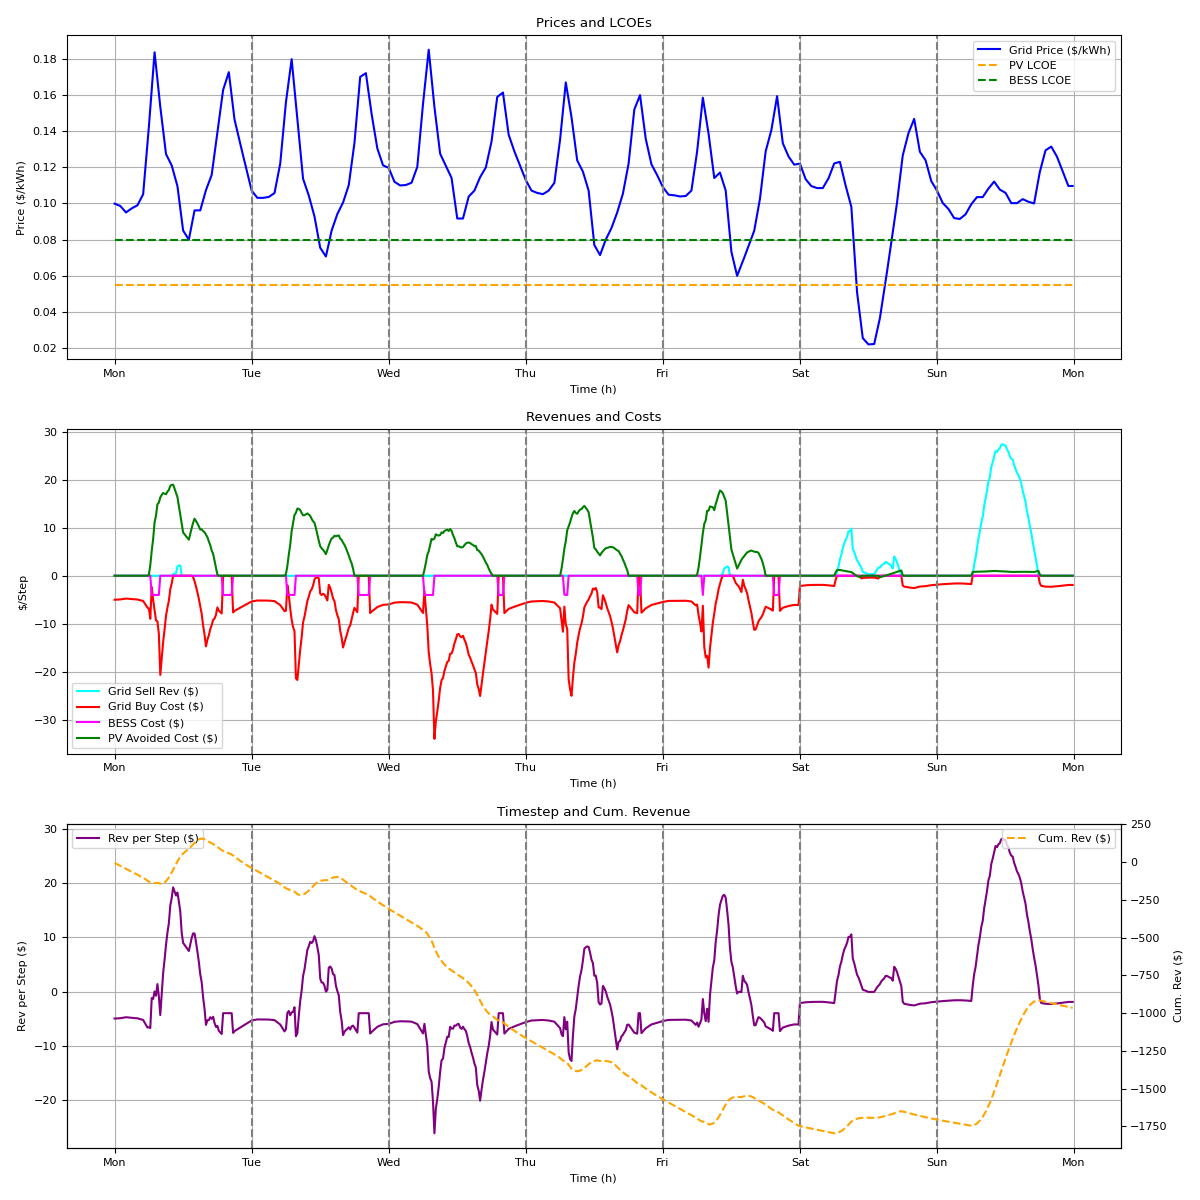
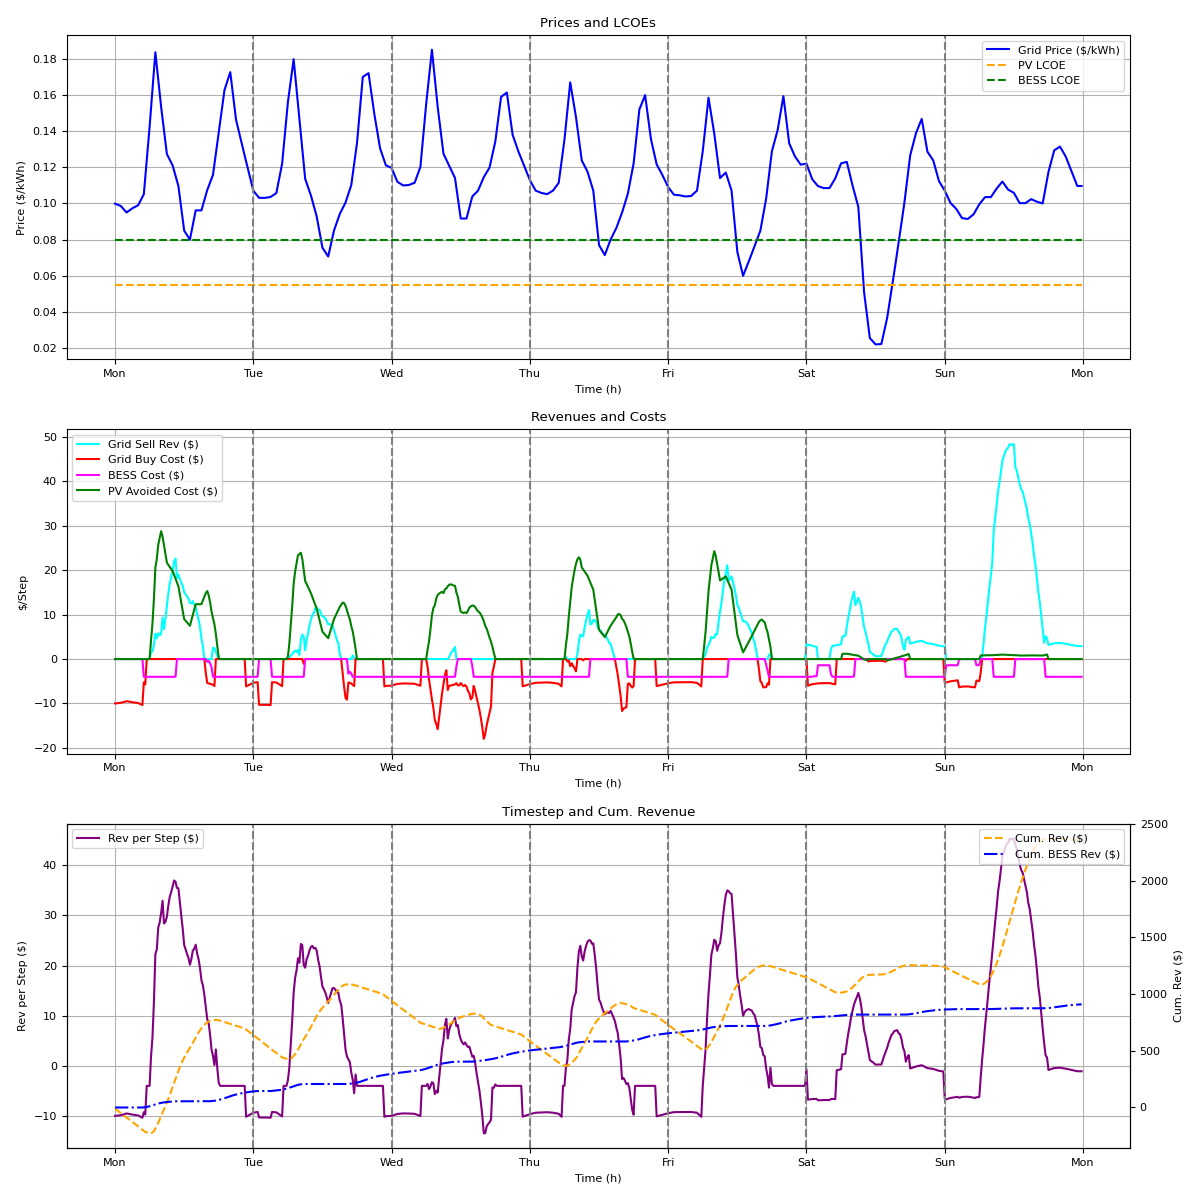
update

diff --git a/Computing Files/Optimization_GUROBI.py b/Computing Files/Optimization_GUROBI.py
@@ -39,7 +39,7 @@ def load_data():
         local_t = t % 24
         day = int(t // 24)
         if 6 <= local_t <= 18:
-            amplitude = 1327 * multipliers[day]
+            amplitude = 2327 * multipliers[day]
             pv_power[i] = amplitude * np.sin(np.pi * (local_t - 6) / 12) + np.random.normal(0, 10)  # Realistic noise
         pv_power[i] = max(0, pv_power[i])  # Ensure non-negative
 
@@ -135,8 +135,8 @@ constraints += [SOC[n_steps] >= soc_initial]
 # Objective: Maximize net revenue with slack penalty
 revenue = (cp.sum(cp.multiply(P_PV_consumer, grid_buy_price - lcoe_pv) * delta_t) +
            cp.sum(cp.multiply(P_PV_grid + P_BESS_grid, grid_sell_price) * delta_t) -
-           cp.sum(cp.multiply(P_grid_consumer + P_grid_BESS, grid_buy_price) * delta_t) -
-           cp.sum(cp.multiply(P_BESS_consumer + P_BESS_grid, lcoe_bess) * delta_t) -
+           cp.sum(cp.multiply(P_grid_consumer + P_grid_BESS, grid_buy_price) * delta_t) +    #CHANGED TO PLUS 15.07
+           cp.sum(cp.multiply(P_BESS_consumer + P_BESS_grid, grid_buy_price - lcoe_bess) * delta_t) - #ADDED GRID PRICE like in PV
            1e5 * cp.sum(slack))  # Penalty for unmet demand
 objective = cp.Maximize(revenue)
 
@@ -173,6 +173,7 @@ if problem.status == cp.OPTIMAL:
     cost_bess_per_step = []
     penalty_per_step = []
     total_net_per_step = []
+    bess_rev_per_step = []
     for t in time_indices:
         rev_pv = P_PV_consumer_vals[t] * (grid_buy_price[t] - lcoe_pv) * delta_t
         rev_sell = (P_PV_grid_vals[t] + P_BESS_grid_vals[t]) * grid_sell_price[t] * delta_t
@@ -186,6 +187,10 @@ if problem.status == cp.OPTIMAL:
         cost_bess_per_step.append(cost_bess)
         penalty_per_step.append(penalty)
         total_net_per_step.append(net_rev)
+
+        # BESS-specific revenue per step
+        bess_rev = P_BESS_grid_vals[t] * (grid_sell_price[t] - lcoe_bess) * delta_t + P_BESS_consumer_vals[t] * (grid_buy_price[t] - lcoe_bess) * delta_t
+        bess_rev_per_step.append(bess_rev)
 
     total_revenue = sum(total_net_per_step)
     print(f"Total Revenue: ${total_revenue:.2f}")
@@ -313,6 +318,8 @@ if problem.status == cp.OPTIMAL:
     ax2 = ax1.twinx()
     cumulative_revenue = np.cumsum(total_net_per_step)
     ax2.plot(time_steps, cumulative_revenue, label='Cum. Rev ($)', color='orange', linestyle='--')
+    cumulative_bess_revenue = np.cumsum(bess_rev_per_step)
+    ax2.plot(time_steps, cumulative_bess_revenue, label='Cum. BESS Rev ($)', color='blue', linestyle='-.')
     ax2.set_ylabel('Cum. Rev ($)')
     ax2.legend(loc='upper right')
 

diff --git a/Computing Files/Optimization_CVXPY.py b/Computing Files/Optimization_CVXPY.py
@@ -132,8 +132,8 @@ constraints += [SOC[n_steps] >= soc_initial]
 # Objective: Maximize net revenue with slack penalty
 revenue = (cp.sum(cp.multiply(P_PV_consumer, grid_buy_price - lcoe_pv) * delta_t) +
            cp.sum(cp.multiply(P_PV_grid + P_BESS_grid, grid_sell_price) * delta_t) -
-           cp.sum(cp.multiply(P_grid_consumer + P_grid_BESS, grid_buy_price) * delta_t) -
-           cp.sum(cp.multiply(P_BESS_consumer + P_BESS_grid, lcoe_bess) * delta_t) -
+           cp.sum(cp.multiply(P_grid_consumer + P_grid_BESS, grid_buy_price) * delta_t) + #same changes as GUROBI
+           cp.sum(cp.multiply(P_BESS_consumer + P_BESS_grid, grid_buy_price - lcoe_bess) * delta_t) -
            1e5 * cp.sum(slack))  # Penalty for unmet demand
 objective = cp.Maximize(revenue)
 
